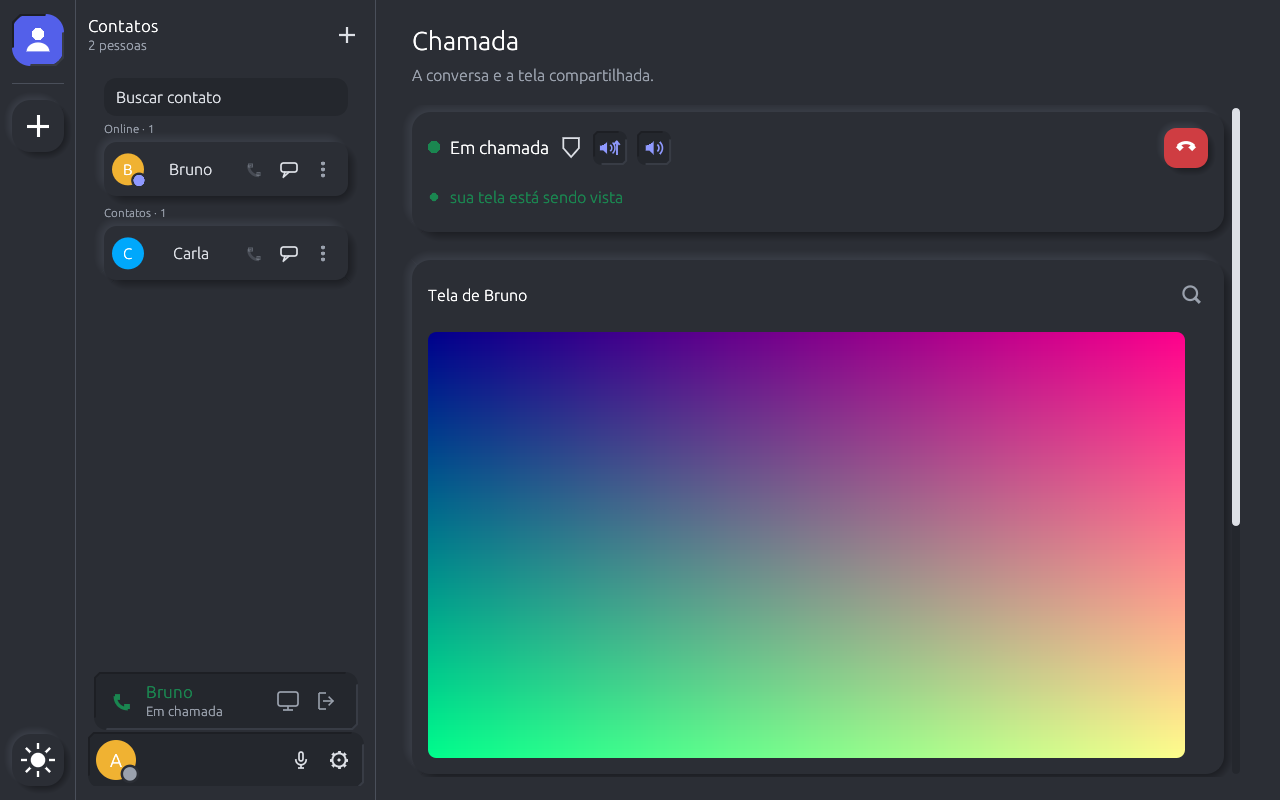
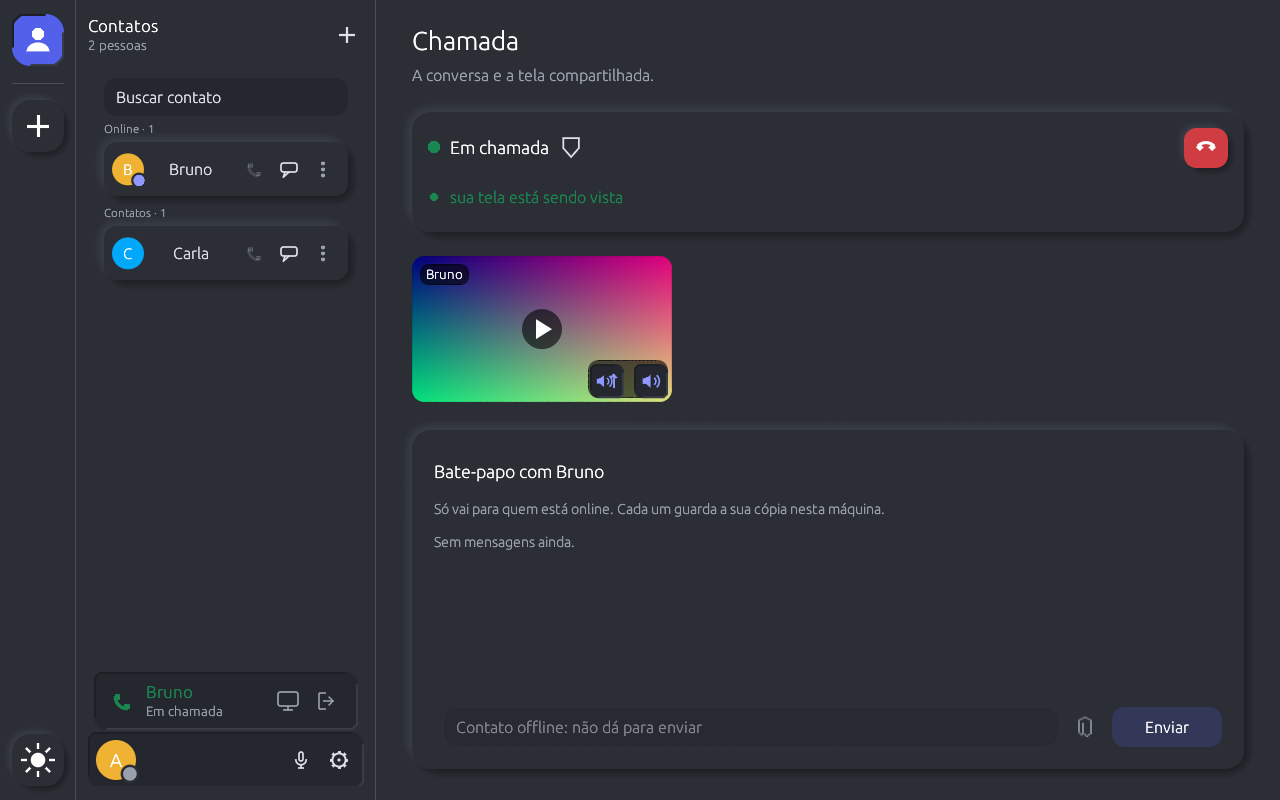
Tela de chamada sem rolagem: só o bate-papo rola; a tela de quem transmite vira miniatura parada e pequena
A rolagem da página escondia o bate-papo. A miniatura é o primeiro quadro (textura à parte), com o nome e as chaves do som no canto; assistir é clicar (tela cheia).

diff --git a/examples/gui/call.rs b/examples/gui/call.rs
@@ -3,7 +3,7 @@
 use clam::sync::LockExt;
 use std::sync::atomic::Ordering;
 
-use eframe::egui::{self, CornerRadius, RichText};
+use eframe::egui::{self, Color32, CornerRadius, Rect, RichText, pos2, vec2};
 
 use crate::{conf::parse_contacts, engine::*, theme::*, ui::*};
 
@@ -81,6 +81,7 @@ impl App {
         {
             let images = st.images.lock_unpoisoned();
             self.screen_tex.retain(|k, _| images.contains_key(k));
+            self.screen_thumb.retain(|k, _| images.contains_key(k));
             for (who, (seq, img)) in images.iter() {
                 if self.screen_tex.get(who).is_none_or(|(n, _)| n != seq) {
                     shown.push((*who, *seq, egui::ColorImage::from_rgba_unmultiplied([img.width, img.height], &img.rgba)));
@@ -94,6 +95,9 @@ impl App {
                 tex.set(color, egui::TextureOptions::LINEAR);
                 *n = seq;
             } else {
+                // A miniatura é uma textura à parte, criada uma vez: fica parada no que a tela mostrava ao chegar.
+                let thumb = ctx.load_texture(format!("mini-{}", who[0]), color.clone(), egui::TextureOptions::LINEAR);
+                self.screen_thumb.insert(who, thumb);
                 let tex = ctx.load_texture(format!("tela-{}", who[0]), color, egui::TextureOptions::LINEAR);
                 self.screen_tex.insert(who, (seq, tex));
             }
@@ -148,8 +152,8 @@ impl App {
                     if hangup_button(ui, if ringing { "Cancelar a chamada" } else { "Desligar a chamada" }).clicked() {
                         self.shared.hangup.store(true, Ordering::Relaxed);
                     }
-                    if !ringing {
-                        // Sempre à vista, com ou sem tela rodando: as duas chaves começam ligadas e a pessoa precisa
+                    if !ringing && self.screen_thumb.is_empty() {
+                        // Com miniatura, as chaves moram nela. Sempre à vista, com ou sem tela rodando: as duas chaves começam ligadas e a pessoa precisa
                         // ver onde estão antes de a transmissão começar. Em ordem de leitura: enviar, ouvir.
                         // Layout explícito: dentro de um right_to_left o `horizontal` herdaria a direção e inverteria a ordem.
                         ui.with_layout(egui::Layout::left_to_right(egui::Align::Center), |ui| self.screen_sound_toggles(ui, true, true));
@@ -182,29 +186,39 @@ impl App {
         ui.add_space(14.0);
     }
 
-    /// As telas de quem transmite para você: o nome e a tela cheia na mesma linha, e a imagem logo abaixo.
+    /// As telas de quem transmite para você: uma miniatura parada, pequena. Assistir é clicar nela (tela cheia); as chaves
+    /// do som ficam no canto de baixo, dentro da própria miniatura.
     fn screens_ui(&mut self, ui: &mut egui::Ui) {
         let names = self.form.names();
-        let mut order: Vec<_> = self.screen_tex.iter().collect();
-        order.sort_by_key(|(k, _)| **k);
-        for (who, (_, tex)) in order {
-            ui.add_space(4.0);
-            raised_frame(ui, R_CARD, 16, |ui| {
-                ui.set_width(ui.available_width());
-                ui.horizontal(|ui| {
-                    ui.label(RichText::new(format!("Tela de {}", member_name(&names, who))).strong().size(16.0).color(pal().strong));
-                    ui.with_layout(egui::Layout::right_to_left(egui::Align::Center), |ui| {
-                        if magnifier_button(ui, "Tela cheia (Esc ou o X para sair)").clicked() {
-                            self.zoom = Some(*who);
-                        }
-                    });
-                });
-                // Em tela cheia a miniatura sai: a imagem não é desenhada duas vezes.
-                if self.zoom != Some(*who) {
-                    ui.add_space(8.0);
-                    ui.add(egui::Image::new(tex).max_width(ui.available_width()).corner_radius(CornerRadius::same(8)).shrink_to_fit());
-                }
-            });
+        let mut order: Vec<_> = self.screen_thumb.iter().map(|(k, t)| (*k, t.clone())).collect();
+        order.sort_by_key(|(k, _)| *k);
+        for (who, tex) in order {
+            let size = tex.size_vec2();
+            let w = ui.available_width().min(260.0);
+            let (rect, resp) = ui.allocate_exact_size(vec2(w, w * size.y / size.x.max(1.0)), egui::Sense::click());
+            let radius = CornerRadius::same(12);
+            let p = ui.painter();
+            egui::Image::new(&tex).corner_radius(radius).paint_at(ui, rect);
+            let hot = resp.hovered();
+            p.rect_filled(rect, radius, Color32::from_black_alpha(if hot { 70 } else { 30 }));
+            // Triângulo de "assistir" desenhado: o glifo da fonte pode faltar.
+            let c = rect.center();
+            p.circle_filled(c, 20.0, Color32::from_black_alpha(150));
+            p.add(egui::Shape::convex_polygon(vec![c + vec2(-6.0, -10.0), c + vec2(-6.0, 10.0), c + vec2(10.0, 0.0)], Color32::WHITE, egui::Stroke::NONE));
+            // Nome no canto de cima, sobre um fundo escuro para ler em qualquer imagem.
+            let label = p.layout_no_wrap(member_name(&names, &who), egui::FontId::proportional(13.0), Color32::WHITE);
+            let tag = Rect::from_min_size(rect.min + vec2(8.0, 8.0), label.size() + vec2(12.0, 6.0));
+            p.rect_filled(tag, CornerRadius::same(8), Color32::from_black_alpha(150));
+            p.galley(tag.min + vec2(6.0, 3.0), label, Color32::WHITE);
+            let resp = resp.on_hover_text("Assistir a tela (Esc ou o X para sair)").on_hover_cursor(egui::CursorIcon::PointingHand);
+            if resp.clicked() {
+                self.zoom = Some(who);
+            }
+            // Chaves do som no canto de baixo, num fundo escuro; ficam por cima do clique da miniatura.
+            let strip = Rect::from_min_size(pos2(rect.right() - 84.0, rect.bottom() - 42.0), vec2(80.0, 38.0));
+            ui.painter().rect_filled(strip, CornerRadius::same(10), Color32::from_black_alpha(150));
+            let mut inner = ui.new_child(egui::UiBuilder::new().max_rect(strip.shrink(2.0)).layout(egui::Layout::left_to_right(egui::Align::Center)));
+            self.screen_sound_toggles(&mut inner, true, true);
             ui.add_space(14.0);
         }
     }

diff --git a/examples/gui/ui.rs b/examples/gui/ui.rs
@@ -44,6 +44,8 @@ pub(crate) struct App {
     pub(crate) srv: crate::servers::ServersUi,
     /// Textura da tela de quem transmite para você e o número da imagem que ela mostra.
     pub(crate) screen_tex: std::collections::HashMap<[u8; 32], (u64, egui::TextureHandle)>,
+    /// Miniatura estática de cada tela que chega: o primeiro quadro, parado. Assistir é clicar (tela cheia).
+    pub(crate) screen_thumb: std::collections::HashMap<[u8; 32], egui::TextureHandle>,
     /// Contato que a pessoa acabou de marcar como de confiança e ainda não confirmou o aviso do IP.
     pub(crate) trust_ask: Option<[u8; 32]>,
     /// Contato cuja conversa 1:1 está aberta no centro, e o texto ainda não enviado.
@@ -387,10 +389,16 @@ impl eframe::App for App {
             if self.tab != Tab::Settings {
                 ctx.data_mut(|d| d.remove_temp::<bool>(crate::settings::show_secret_id()));
             }
+            // A chamada não rola: o único que rola ali é o bate-papo, dentro do próprio painel.
+            if matches!(self.tab, Tab::Contacts | Tab::Call) {
+                ui.set_max_width(ui.available_width().min(1500.0));
+                self.call_tab(ui, offline, calling, calling && !in_room);
+                return;
+            }
             egui::ScrollArea::vertical().auto_shrink(false).show(ui, |ui| {
                 ui.set_max_width(ui.available_width().min(1500.0));
                 match self.tab {
-                    Tab::Contacts | Tab::Call => self.call_tab(ui, offline, calling, calling && !in_room),
+                    Tab::Contacts | Tab::Call => {}
                     Tab::Servers => self.servers_tab(ui, offline),
                     Tab::Video => self.video_tab(ui),
                     Tab::Audio => self.audio_tab(ui, offline, calling, testing),

diff --git a/examples/gui/snapshot.rs b/examples/gui/snapshot.rs
@@ -178,6 +178,7 @@ fn sample_app(tab: Tab) -> App {
         tab,
         audio_dirty: false,
         screen_tex: Default::default(),
+        screen_thumb: Default::default(),
         zoom: None,
         trust_ask: None,
         chat_with: None,
@@ -210,6 +211,7 @@ fn shot_in_call(size: egui::Vec2) -> Frame {
             let (w, h) = (320, 180);
             let px: Vec<Color32> = (0..w * h).map(|i| Color32::from_rgb((i % w * 255 / w) as u8, (i / w * 255 / h) as u8, 140)).collect();
             let tex = ctx.load_texture("tela-teste", egui::ColorImage::new([w, h], px), egui::TextureOptions::LINEAR);
+            app.screen_thumb.insert(peer, tex.clone());
             app.screen_tex.insert(peer, (1, tex));
             made = true;
         }

diff --git a/examples/gui/conversa.rs b/examples/gui/conversa.rs
@@ -42,7 +42,7 @@ impl App {
             });
             note(ui, "Só vai para quem está online. Cada um guarda a sua cópia nesta máquina.");
             ui.add_space(6.0);
-            let height = (ui.clip_rect().bottom() - ui.cursor().top() - 120.0).clamp(160.0, 420.0);
+            let height = (ui.clip_rect().bottom() - ui.cursor().top() - 120.0).max(160.0);
             egui::ScrollArea::vertical().id_salt(("conversa", peer)).max_height(height).min_scrolled_height(height).stick_to_bottom(true).auto_shrink([false, false]).show(ui, |ui| {
                 if msgs.is_empty() {
                     note(ui, "Sem mensagens ainda.");

diff --git a/examples/gui/main.rs b/examples/gui/main.rs
@@ -63,6 +63,7 @@ fn main() -> eframe::Result {
                 tab: Tab::Contacts,
                 audio_dirty: false,
                 screen_tex: Default::default(),
+        screen_thumb: Default::default(),
                 zoom: None,
                 trust_ask: None,
                 chat_with: None,

diff --git a/examples/gui/settings.rs b/examples/gui/settings.rs
@@ -277,6 +277,7 @@ mod layout_tests {
             tab: Tab::Settings,
             audio_dirty: false,
             screen_tex: Default::default(),
+        screen_thumb: Default::default(),
             zoom: None,
             trust_ask: None,
             chat_with: None,

diff --git a/docs/GUI.md b/docs/GUI.md
@@ -14,7 +14,7 @@ A janela segue o layout do Discord e o visual neomórfico (soft UI: uma cor base
 |---|---|
 | **Contatos** (ícone de pessoa no trilho; não é aba) | Na coluna da esquerda, no lugar das salas: um contato por linha com o avatar (um ponto verde no canto indica contato online; contato sabidamente offline fica com avatar e nome apagados; o hover diz Online, Offline, "Verificando se está online…" (a sondagem ainda não respondeu) ou "Você está offline", então a presença não depende só da cor; clicar no avatar ou no nome abre o bate-papo; os dois ficam fora do Tab, e a parada é o botão de bate-papo; contato sem nome aparece como "Novo contato", apagado, com o começo da chave no hover; o subtítulo da coluna diz "2 online · 5 pessoas"; quando há online e não-online juntos, a lista se divide em *Online · N*, *Offline · N* e *Verificando… · N* (a sondagem ainda não respondeu), com títulos só quando há mais de um grupo, lidos como cabeçalho (com foco de teclado), a mensagem nova subindo só dentro do próprio grupo e grupos e ordem parados sob o ponteiro (quem muda de presença ali só troca de grupo ao soltá-lo); o contato da chamada em curso abre a lista, com o ponto no acento (não no verde), "Em chamada" no hover do avatar e "Você já está em chamada com este contato" no ligar apagado; para teclado e leitor de tela, o estado vai no nome acessível dos botões: "Bate-papo com Ana, online" e "Ligar para Ana (indisponível: …)"; o seu próprio estado offline não entra no nome, para não parecer que é o contato que está offline), ligar, bate-papo (azul quando há mensagem nova; a bolinha com o número de novas e a subida para o topo continuam, mas a ordem fica parada enquanto o ponteiro está sobre a lista, para o botão não fugir; o ícone de pessoa do trilho mostra o total) e um menu de três pontos com *Marcar como de confiança* / *Tirar a confiança* e *Remover contato* (vermelho; pede confirmação antes de tirar o contato e avisá-lo). Quem é de confiança mostra uma marca de escudo cheio, com visto, em tinta neutra forte (não verde: o verde é "ao vivo/ok" e a confiança expõe o IP), ao lado do nome (sem clique, mas com foco de teclado e nome para leitor de tela), porque expõe o IP e não pode ficar escondido no menu. Sem contatos, a coluna esconde a busca e mostra o formulário de adicionar já aberto, a explicação de que os dois trocam o código e o atalho *Ver o meu código* (Configurações). A confirmação de remover acontece dentro do próprio menu de três pontos, sem janela: a pergunta, o efeito escrito, a caixa *Bloquear também* e os botões *Remover* e *Cancelar* (o foco entra em *Cancelar*; Esc desfaz a pergunta e volta ao item, e o segundo Esc fecha o menu; depois de remover, o foco vai para a busca). A busca no alto (Esc limpa o texto) e o + *Novo contato* à direita do título (só o código; o nome vem do próprio contato). O centro mostra a tela de Chamada |
 | *Servidor* (pelo trilho) | As *Salas de voz* com quem está em cada uma, o aro verde de quem fala e, no centro, o bate-papo da sala em que você está (apagado quando a sala esvazia; enquanto você assiste a uma tela ela cobre o centro e o bate-papo só volta ao parar de assistir ou ao clicar no nome da sala na barra do pé), *Telas da sala*, e, numa coluna à direita, os *Membros* (online e offline) com o convite recolhido e o aviso de IP. A coluna de membros só abre sozinha em janela de 1100 px ou mais (trilho + salas + membros tomam 716 px e o bate-papo precisa de ~380); em janela menor ela fica escondida, e o ícone de duas pessoas no cabeçalho das salas (dica: "membros e convite", já que o convite mora nessa coluna) mostra ou esconde e fica afundado enquanto a coluna está aberta, a escolha valendo até fechar o app. Detalhes em [SERVIDORES.md](SERVIDORES.md) |
-| **Chamada** | *Ligar para um código* (sem chamada); a conversa (chamar ou atender não troca de aba; compartilhar a tela e o mudo ficam só na barra do pé, sem botão aqui), uma barra única no topo (estado da chamada, selo de privacidade, os ícones de som da tela, desligar; quando você transmite, "sua tela está sendo vista" e o diagnóstico num bloco recolhido *Detalhes da transmissão*) e a *Tela de ...* de quem transmite para você, que se vê só de dois jeitos: a miniatura do cartão e a tela cheia (🔍; a janela do app vai a tela cheia e a imagem ocupa tudo; sai pelo X no canto ou pelo Esc) |
+| **Chamada** | *Ligar para um código* (sem chamada); a conversa (chamar ou atender não troca de aba; compartilhar a tela e o mudo ficam só na barra do pé, sem botão aqui), uma barra única no topo (estado da chamada, selo de privacidade, desligar; quando você transmite, "sua tela está sendo vista" e o diagnóstico num bloco recolhido *Detalhes da transmissão*) e, de quem transmite para você, uma miniatura pequena e parada (o primeiro quadro) com o nome e os ícones de som (enviar, ouvir) no canto; assistir é clicar nela, e abre a tela cheia (🔍; a janela do app vai a tela cheia e a imagem ocupa tudo; sai pelo X no canto ou pelo Esc) |
 | **Vídeo** | *Transmissão de tela*: privacidade, *Priorizar* fluidez ou nitidez e codificar pela placa de vídeo; valem da próxima transmissão, na chamada e nas salas. A linha de diagnóstico da transmissão traz "som: capturados N (M com som), enviados N, recebidos N, tocados N", que diz em que etapa o som parou (capturado sem som é o monitor errado ou nada tocando), e a falha ao abrir a captura (sem `gst-launch-1.0` ou saída padrão) aparece na janela, não só no log. O som da tela não fica aqui: os botões de ícone *Enviar o som do computador* e *Ouvir o som das telas* (alto-falante; riscado quando desligado; a explicação está no hover) (ambas ligadas de início) aparecem sempre no card "Som da tela" da chamada e em "Telas da sala" (antes mesmo de transmitir ou assistir), e valem na hora (enviar existe no Linux e no Windows; ver [CHAMADAS.md](CHAMADAS.md#transmissão-de-tela-clammediascreen-clamphone)) |
 | **Áudio** | *Dispositivos* (usar microfone e alto-falante, escolha dos dois), *Volume e microfone* (mudo, volume, ganho, medidor, sensibilidade, teste) e três cartões de tratamento da voz: *Ruído* (remover ruído, silenciar o que não é voz e o quanto abaixar, cortar graves), *Eco* (cancelar e abaixar o microfone) e *Nível e formato* (volume automático, Opus, restaurar padrões) |
 | **Configurações** | *Conexão* (Ficar online / offline, o estado e a caixa *Tentar ficar online ao abrir o programa*, ligada por padrão; desmarcar grava `no_auto_online=1` em `~/.clam-gui.conf`), *Meu código de contato* (com *Copiar o código*), *Identidade* (a chave secreta, oculta; *Gerar nova identidade*), *Seu nome*, *Endereço* público, *Encontrar contatos* (DHT, circuito da DHT, aceitar apresentações) e *Âncoras* (servir de âncora, as que você usa e o código da sua) |

diff --git a/docs/CHAMADAS.md b/docs/CHAMADAS.md
@@ -122,7 +122,7 @@ A tela anda num **circuito só dela**, aberto por quem transmite até o telefone
 - Captura X11 (feature `capture`, `clam::capture`): `X11Screen` lê a janela raiz por `GetImage`. Sob Wayland o XWayland recusa a leitura (`BadMatch`) e `X11Screen::open` devolve `Unreadable`.
 - Captura Windows (feature `capture`, `clam::capture::GdiScreen`): `BitBlt` da tela principal para um bitmap, via `windows-sys`; o processo se declara ciente de DPI para pegar a resolução real. `X11Screen`, `PortalScreen` e suas dependências (`x11rb`, `ashpd`, `rustix`) só existem no Unix; no Windows a GUI usa só o GDI. O código GDI foi verificado só por compilação cruzada do módulo isolado (o `openh264` precisa de mingw para compilar o crate inteiro), sem execução em Windows.
 - Captura Wayland (feature `portal`, Unix, `clam::portal`): `PortalScreen::open().await` pede ao portal `ScreenCast` (diálogo do compositor: monitor ou janela, a cada transmissão) e lê o PipeWire por um `gst-launch-1.0` filho que entrega RGBA a 15 quadros/s (ou a taxa pedida em `PortalScreen::open_with`), reduzido a no máximo 1920 de largura. Não há dependência de compilação do PipeWire; em tempo de execução precisa de `gstreamer1.0-tools`, `gstreamer1.0-plugins-base` e `gstreamer1.0-pipewire`. O Wayland só manda quadro quando a tela muda; por isso o `videorate` é `drop-only=true` (sem isso ele segura cada quadro até chegar o próximo e a última imagem antes de a tela parar nunca saía: "a tela para" para quem assiste, medido com `videotestsrc` a 1 quadro a cada 2 s) e o `pipewiresrc` repete o último quadro a cada 250 ms (`keepalive-time`), para o codificador ver a imagem calma e devolver resolução e nitidez. Limite: não verificado num compositor real (sem display aqui). Teste manual: `cargo test --features portal --lib -- --ignored real_portal`. Outra fonte entra implementando `ScreenSource`.
-- GUI: a barra da aba Chamada tem os ícones de som e o aviso "sua tela está sendo vista" quando você transmite (circuito de tela a 15 quadros/s, 30 sem privacidade; começa pelo botão de tela do pé); a tela de quem transmite para você aparece num cartão "Tela de ..." logo abaixo. O diagnóstico, no bloco recolhido "Detalhes da transmissão", mostra taxa (kbps), pacotes/s, QP, resolução (imagem 1/N) e quadros adiados. A feature `gui` inclui `capture` e `portal`: sob Wayland usa o portal (a pessoa escolhe a tela no diálogo do sistema), nos outros casos o X11, e uma serve de reserva da outra. Ao cair a ligação a transmissão para e é preciso ligar de novo.
+- GUI: a aba Chamada não rola (só o bate-papo rola, no próprio painel). A barra tem o aviso "sua tela está sendo vista" quando você transmite (circuito de tela a 15 quadros/s, 30 sem privacidade; começa pelo botão de tela do pé); a tela de quem transmite para você aparece como miniatura parada logo abaixo, com os ícones de som dentro dela (sem miniatura, ficam na barra); clicar abre a tela cheia. O diagnóstico, no bloco recolhido "Detalhes da transmissão", mostra taxa (kbps), pacotes/s, QP, resolução (imagem 1/N) e quadros adiados. A feature `gui` inclui `capture` e `portal`: sob Wayland usa o portal (a pessoa escolhe a tela no diálogo do sistema), nos outros casos o X11, e uma serve de reserva da outra. Ao cair a ligação a transmissão para e é preciso ligar de novo.
 
 ### Bate-papo 1:1 (`media::update`, etiqueta 13)
 
